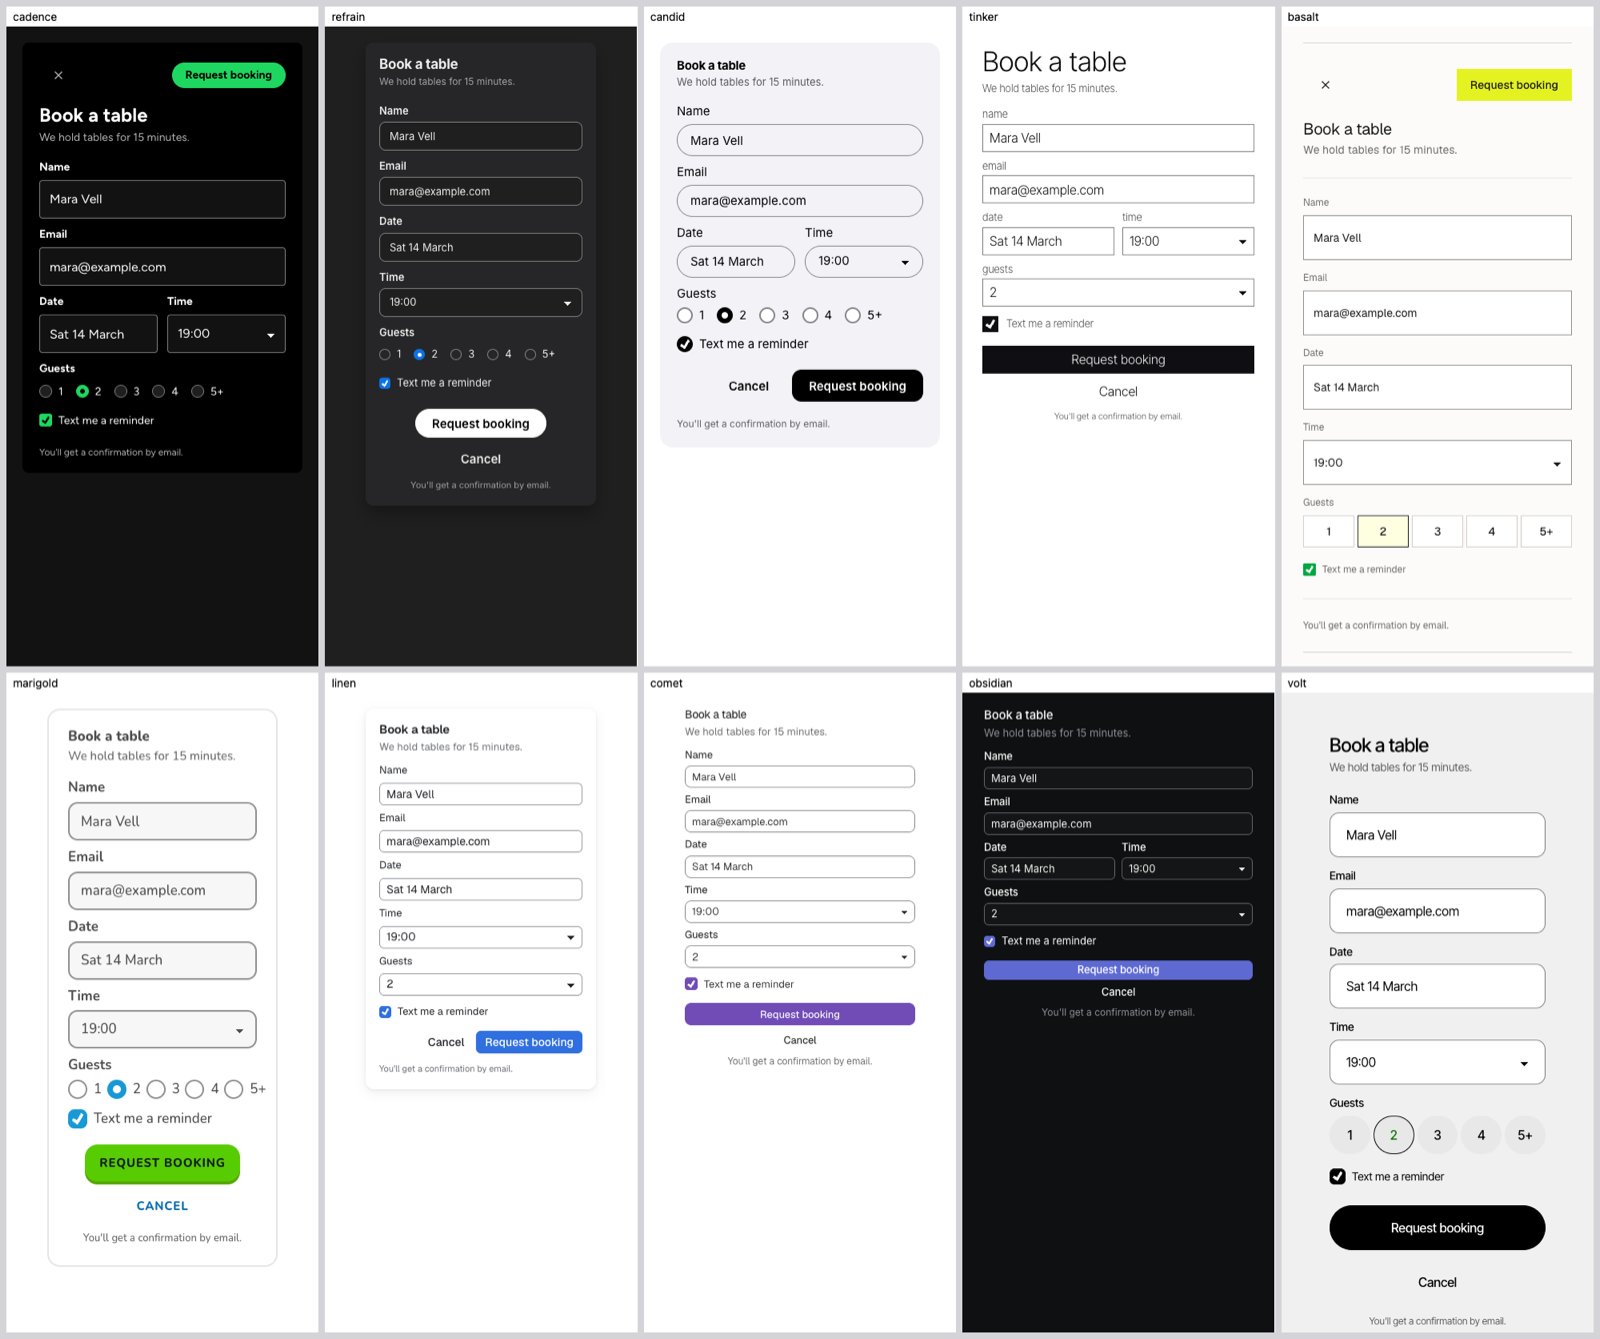
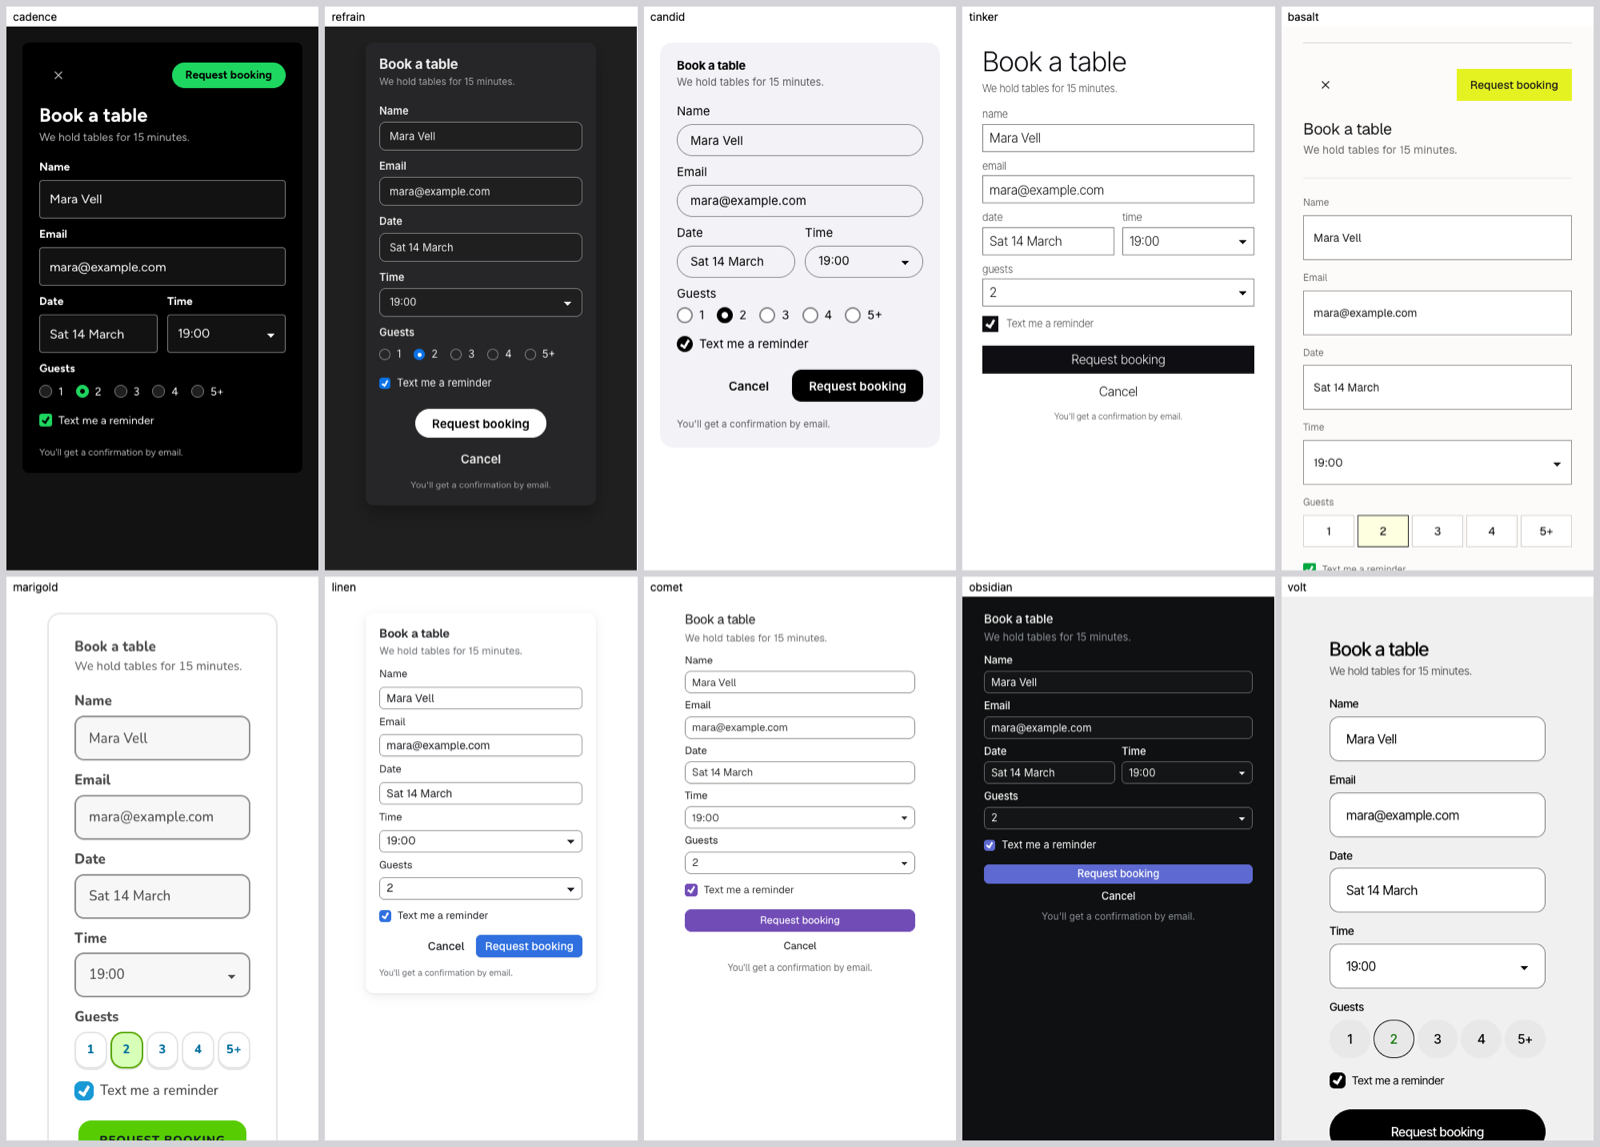
Showcases: arrangements regenerated from design-library wave 1's fingerprints (50, with garnet); the sheets retaken
As promised in mariachi-ai/ts#50. 24 languages' arrangements moved with their recipes;
of the ten on the sheets, marigold is now airy and comet's title medium.

diff --git a/packages/design/src/showcase/arrangements.ts b/packages/design/src/showcase/arrangements.ts
@@ -6,7 +6,7 @@ export const arrangements: Record<string, Arrangement> = {
     separation: 'border',
     media: 'thumb',
     title: 'quiet',
-    density: 'dense',
+    density: 'regular',
     primary: 'inline',
     width: 'wide',
   },
@@ -18,7 +18,7 @@ export const arrangements: Record<string, Arrangement> = {
     primary: 'header',
     width: 'regular',
   },
-  bazaar: { separation: 'tint', media: 'thumb', title: 'quiet', density: 'airy', primary: 'header', width: 'wide' },
+  bazaar: { separation: 'tint', media: 'thumb', title: 'medium', density: 'airy', primary: 'header', width: 'wide' },
   broadsheet: {
     separation: 'divider',
     media: 'thumb',
@@ -39,20 +39,20 @@ export const arrangements: Record<string, Arrangement> = {
   },
   cirrus: {
     separation: 'border',
-    media: 'thumb',
+    media: 'leads',
     title: 'quiet',
     density: 'dense',
-    primary: 'inline',
-    width: 'narrow',
+    primary: 'centre',
+    width: 'regular',
   },
-  comet: { separation: 'space', media: 'thumb', title: 'quiet', density: 'dense', primary: 'footer', width: 'narrow' },
+  comet: { separation: 'space', media: 'thumb', title: 'medium', density: 'dense', primary: 'footer', width: 'narrow' },
   confetti: {
     separation: 'border',
     media: 'beside',
     title: 'quiet',
     density: 'dense',
     primary: 'footer',
-    width: 'wide',
+    width: 'regular',
   },
   doodle: {
     separation: 'divider',
@@ -70,31 +70,53 @@ export const arrangements: Record<string, Arrangement> = {
     primary: 'footer',
     width: 'regular',
   },
-  fennel: { separation: 'tint', media: 'thumb', title: 'medium', density: 'airy', primary: 'header', width: 'narrow' },
+  fennel: { separation: 'divider', media: 'thumb', title: 'medium', density: 'airy', primary: 'header', width: 'wide' },
   flint: {
     separation: 'divider',
     media: 'thumb',
     title: 'quiet',
+    density: 'dense',
+    primary: 'inline',
+    width: 'narrow',
+  },
+  folio: { separation: 'space', media: 'thumb', title: 'medium', density: 'dense', primary: 'footer', width: 'narrow' },
+  garnet: {
+    separation: 'shadow',
+    media: 'thumb',
+    title: 'loud',
     density: 'regular',
     primary: 'inline',
     width: 'regular',
   },
-  folio: { separation: 'space', media: 'thumb', title: 'medium', density: 'dense', primary: 'footer', width: 'narrow' },
   halcyon: {
     separation: 'divider',
     media: 'thumb',
     title: 'medium',
-    density: 'regular',
-    primary: 'inline',
-    width: 'regular',
+    density: 'dense',
+    primary: 'header',
+    width: 'wide',
   },
   harbor: { separation: 'tint', media: 'thumb', title: 'quiet', density: 'airy', primary: 'header', width: 'regular' },
-  hearth: { separation: 'tint', media: 'thumb', title: 'quiet', density: 'dense', primary: 'inline', width: 'narrow' },
-  heather: { separation: 'divider', media: 'thumb', title: 'loud', density: 'dense', primary: 'header', width: 'wide' },
+  hearth: {
+    separation: 'tint',
+    media: 'thumb',
+    title: 'quiet',
+    density: 'regular',
+    primary: 'inline',
+    width: 'narrow',
+  },
+  heather: {
+    separation: 'divider',
+    media: 'leads',
+    title: 'loud',
+    density: 'dense',
+    primary: 'header',
+    width: 'regular',
+  },
   keel: {
     separation: 'shadow',
     media: 'thumb',
-    title: 'quiet',
+    title: 'medium',
     density: 'regular',
     primary: 'header',
     width: 'regular',
@@ -103,9 +125,9 @@ export const arrangements: Record<string, Arrangement> = {
   lagoon: {
     separation: 'tint',
     media: 'thumb',
-    title: 'medium',
+    title: 'quiet',
     density: 'regular',
-    primary: 'inline',
+    primary: 'header',
     width: 'regular',
   },
   linen: { separation: 'shadow', media: 'thumb', title: 'quiet', density: 'dense', primary: 'inline', width: 'narrow' },
@@ -121,7 +143,7 @@ export const arrangements: Record<string, Arrangement> = {
     separation: 'border',
     media: 'thumb',
     title: 'quiet',
-    density: 'regular',
+    density: 'airy',
     primary: 'centre',
     width: 'narrow',
   },
@@ -135,8 +157,22 @@ export const arrangements: Record<string, Arrangement> = {
     primary: 'footer',
     width: 'wide',
   },
-  nacre: { separation: 'shadow', media: 'leads', title: 'quiet', density: 'dense', primary: 'footer', width: 'narrow' },
-  nocturne: { separation: 'tint', media: 'thumb', title: 'quiet', density: 'airy', primary: 'centre', width: 'narrow' },
+  nacre: {
+    separation: 'shadow',
+    media: 'leads',
+    title: 'medium',
+    density: 'dense',
+    primary: 'footer',
+    width: 'narrow',
+  },
+  nocturne: {
+    separation: 'tint',
+    media: 'thumb',
+    title: 'medium',
+    density: 'airy',
+    primary: 'centre',
+    width: 'narrow',
+  },
   obsidian: {
     separation: 'space',
     media: 'thumb',
@@ -154,13 +190,20 @@ export const arrangements: Record<string, Arrangement> = {
     width: 'regular',
   },
   onyx: { separation: 'space', media: 'thumb', title: 'loud', density: 'airy', primary: 'centre', width: 'narrow' },
-  quill: { separation: 'border', media: 'thumb', title: 'quiet', density: 'dense', primary: 'inline', width: 'narrow' },
+  quill: {
+    separation: 'border',
+    media: 'thumb',
+    title: 'medium',
+    density: 'dense',
+    primary: 'inline',
+    width: 'narrow',
+  },
   quire: {
     separation: 'shadow',
     media: 'beside',
     title: 'quiet',
-    density: 'regular',
-    primary: 'inline',
+    density: 'dense',
+    primary: 'centre',
     width: 'narrow',
   },
   reel: { separation: 'tint', media: 'leads', title: 'medium', density: 'airy', primary: 'header', width: 'wide' },
@@ -172,15 +215,22 @@ export const arrangements: Record<string, Arrangement> = {
     primary: 'centre',
     width: 'narrow',
   },
-  relay: { separation: 'space', media: 'leads', title: 'loud', density: 'regular', primary: 'header', width: 'wide' },
+  relay: {
+    separation: 'space',
+    media: 'leads',
+    title: 'loud',
+    density: 'regular',
+    primary: 'header',
+    width: 'regular',
+  },
   saffron: { separation: 'divider', media: 'thumb', title: 'loud', density: 'airy', primary: 'inline', width: 'wide' },
-  solace: { separation: 'tint', media: 'thumb', title: 'quiet', density: 'airy', primary: 'footer', width: 'narrow' },
+  solace: { separation: 'tint', media: 'thumb', title: 'medium', density: 'airy', primary: 'footer', width: 'narrow' },
   sprint: { separation: 'tint', media: 'thumb', title: 'display', density: 'airy', primary: 'inline', width: 'wide' },
-  summit: { separation: 'shadow', media: 'thumb', title: 'loud', density: 'airy', primary: 'footer', width: 'wide' },
+  summit: { separation: 'shadow', media: 'thumb', title: 'loud', density: 'airy', primary: 'header', width: 'wide' },
   terracotta: {
     separation: 'divider',
     media: 'beside',
-    title: 'quiet',
+    title: 'medium',
     density: 'dense',
     primary: 'footer',
     width: 'wide',
@@ -189,10 +239,10 @@ export const arrangements: Record<string, Arrangement> = {
   transit: {
     separation: 'divider',
     media: 'thumb',
-    title: 'loud',
-    density: 'airy',
-    primary: 'inline',
-    width: 'regular',
+    title: 'medium',
+    density: 'regular',
+    primary: 'header',
+    width: 'wide',
   },
   trellis: {
     separation: 'space',
@@ -202,7 +252,7 @@ export const arrangements: Record<string, Arrangement> = {
     primary: 'footer',
     width: 'wide',
   },
-  vellum: { separation: 'tint', media: 'thumb', title: 'loud', density: 'dense', primary: 'inline', width: 'regular' },
+  vellum: { separation: 'tint', media: 'thumb', title: 'loud', density: 'regular', primary: 'centre', width: 'narrow' },
   volt: { separation: 'tint', media: 'thumb', title: 'loud', density: 'airy', primary: 'footer', width: 'regular' },
   zephyr: { separation: 'divider', media: 'thumb', title: 'loud', density: 'airy', primary: 'inline', width: 'narrow' },
 };
